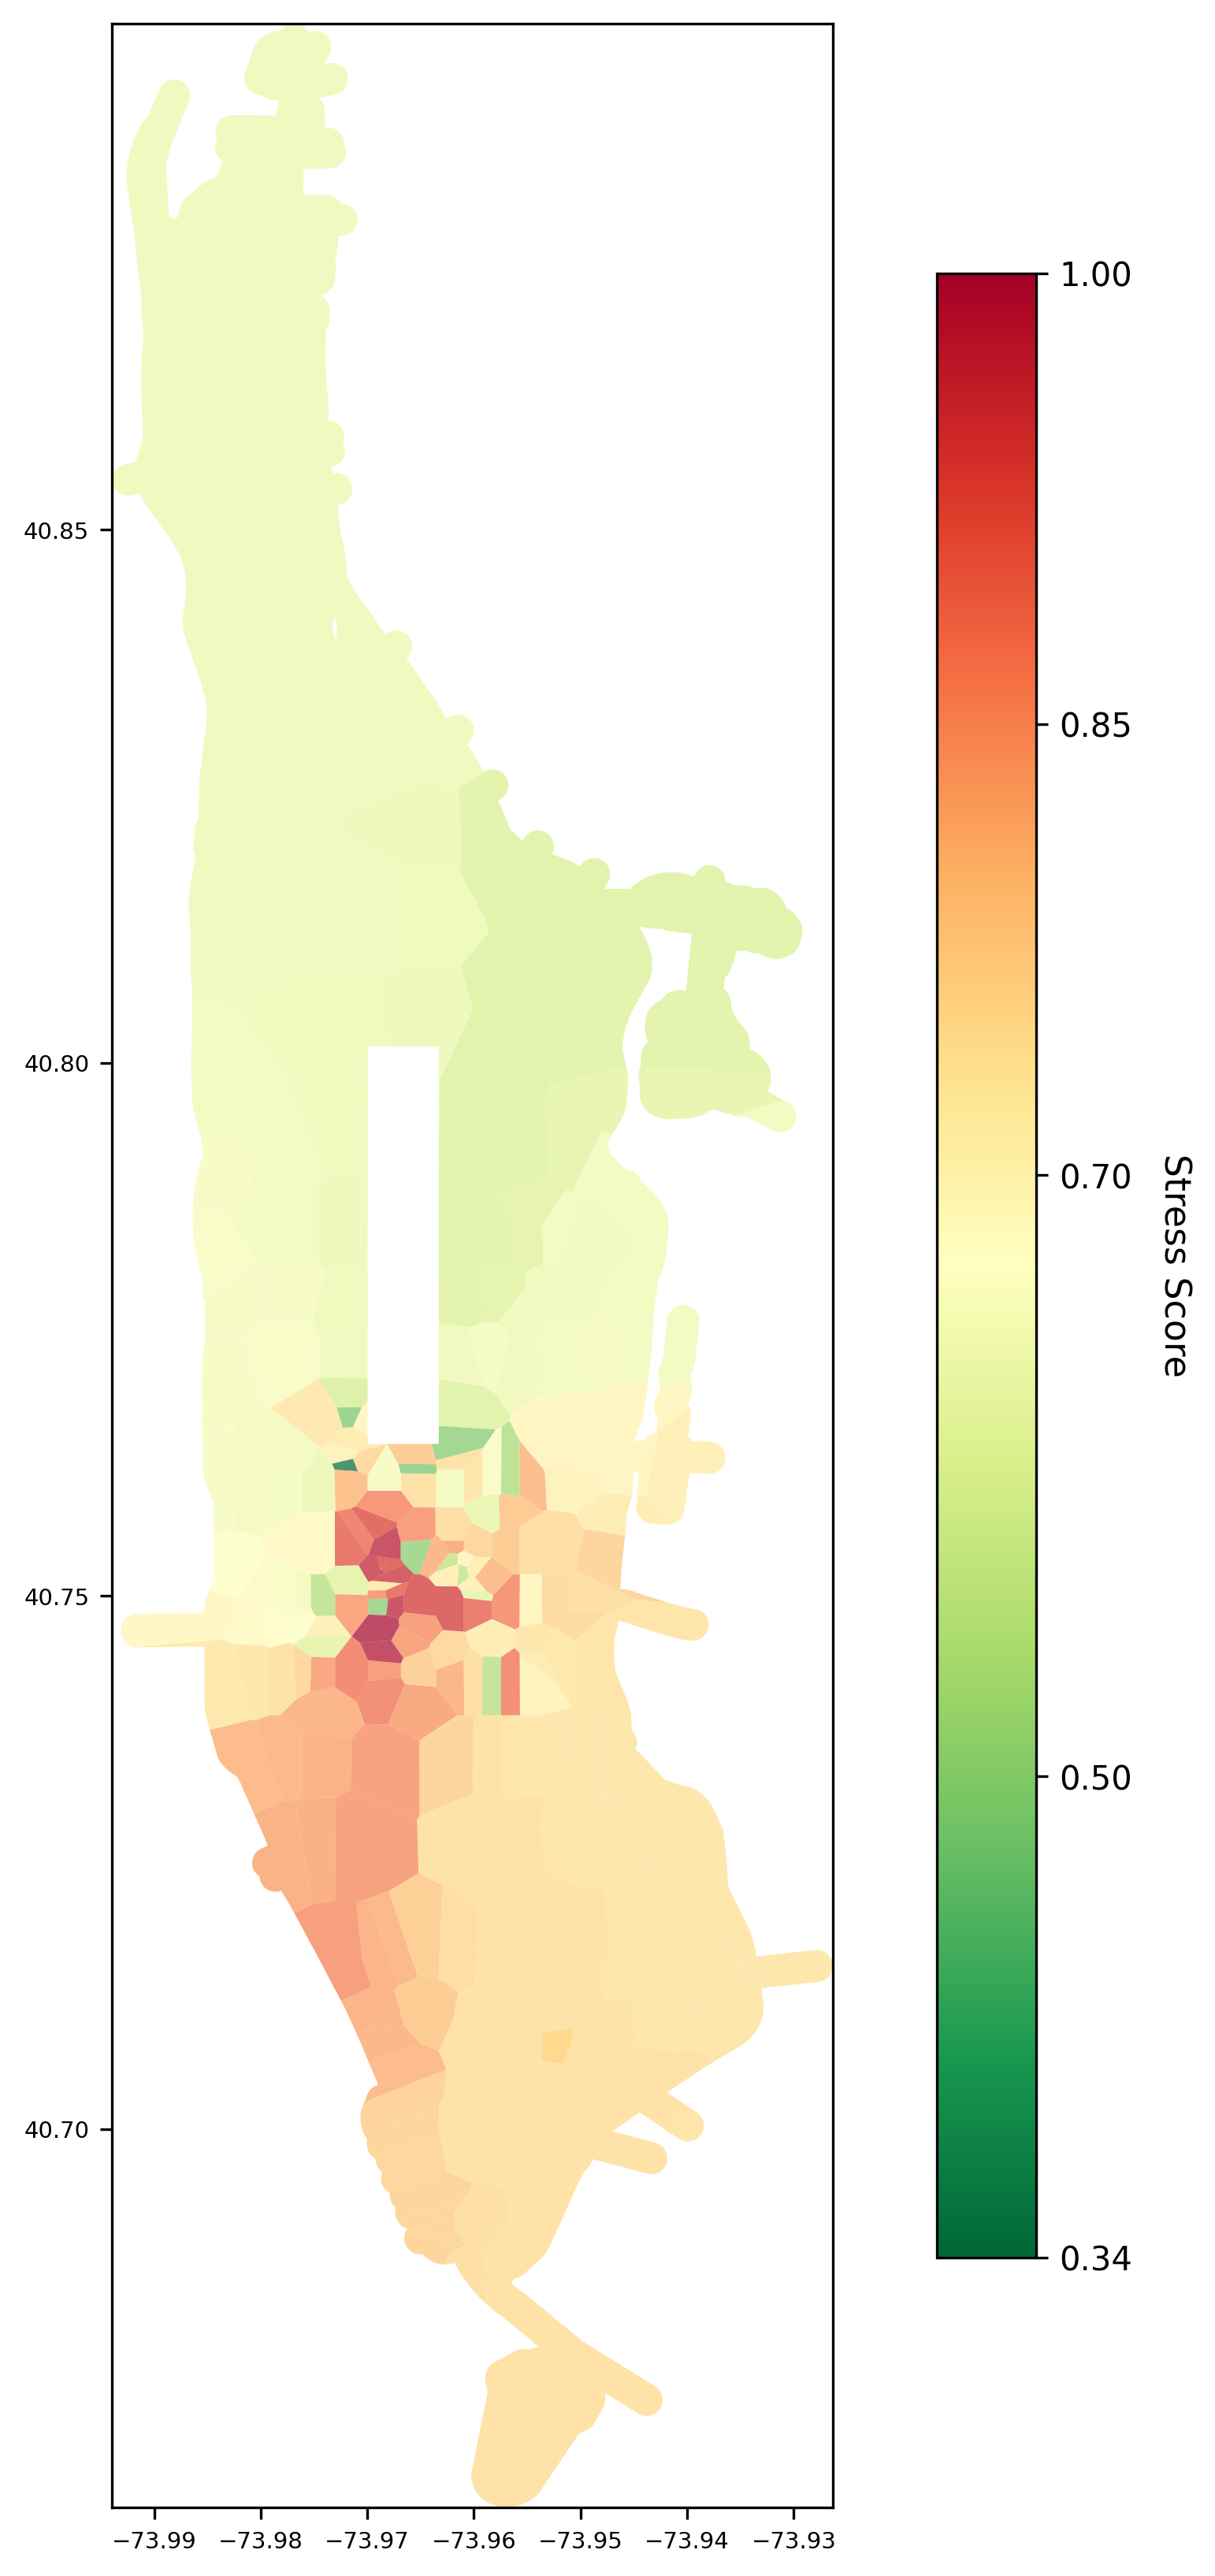
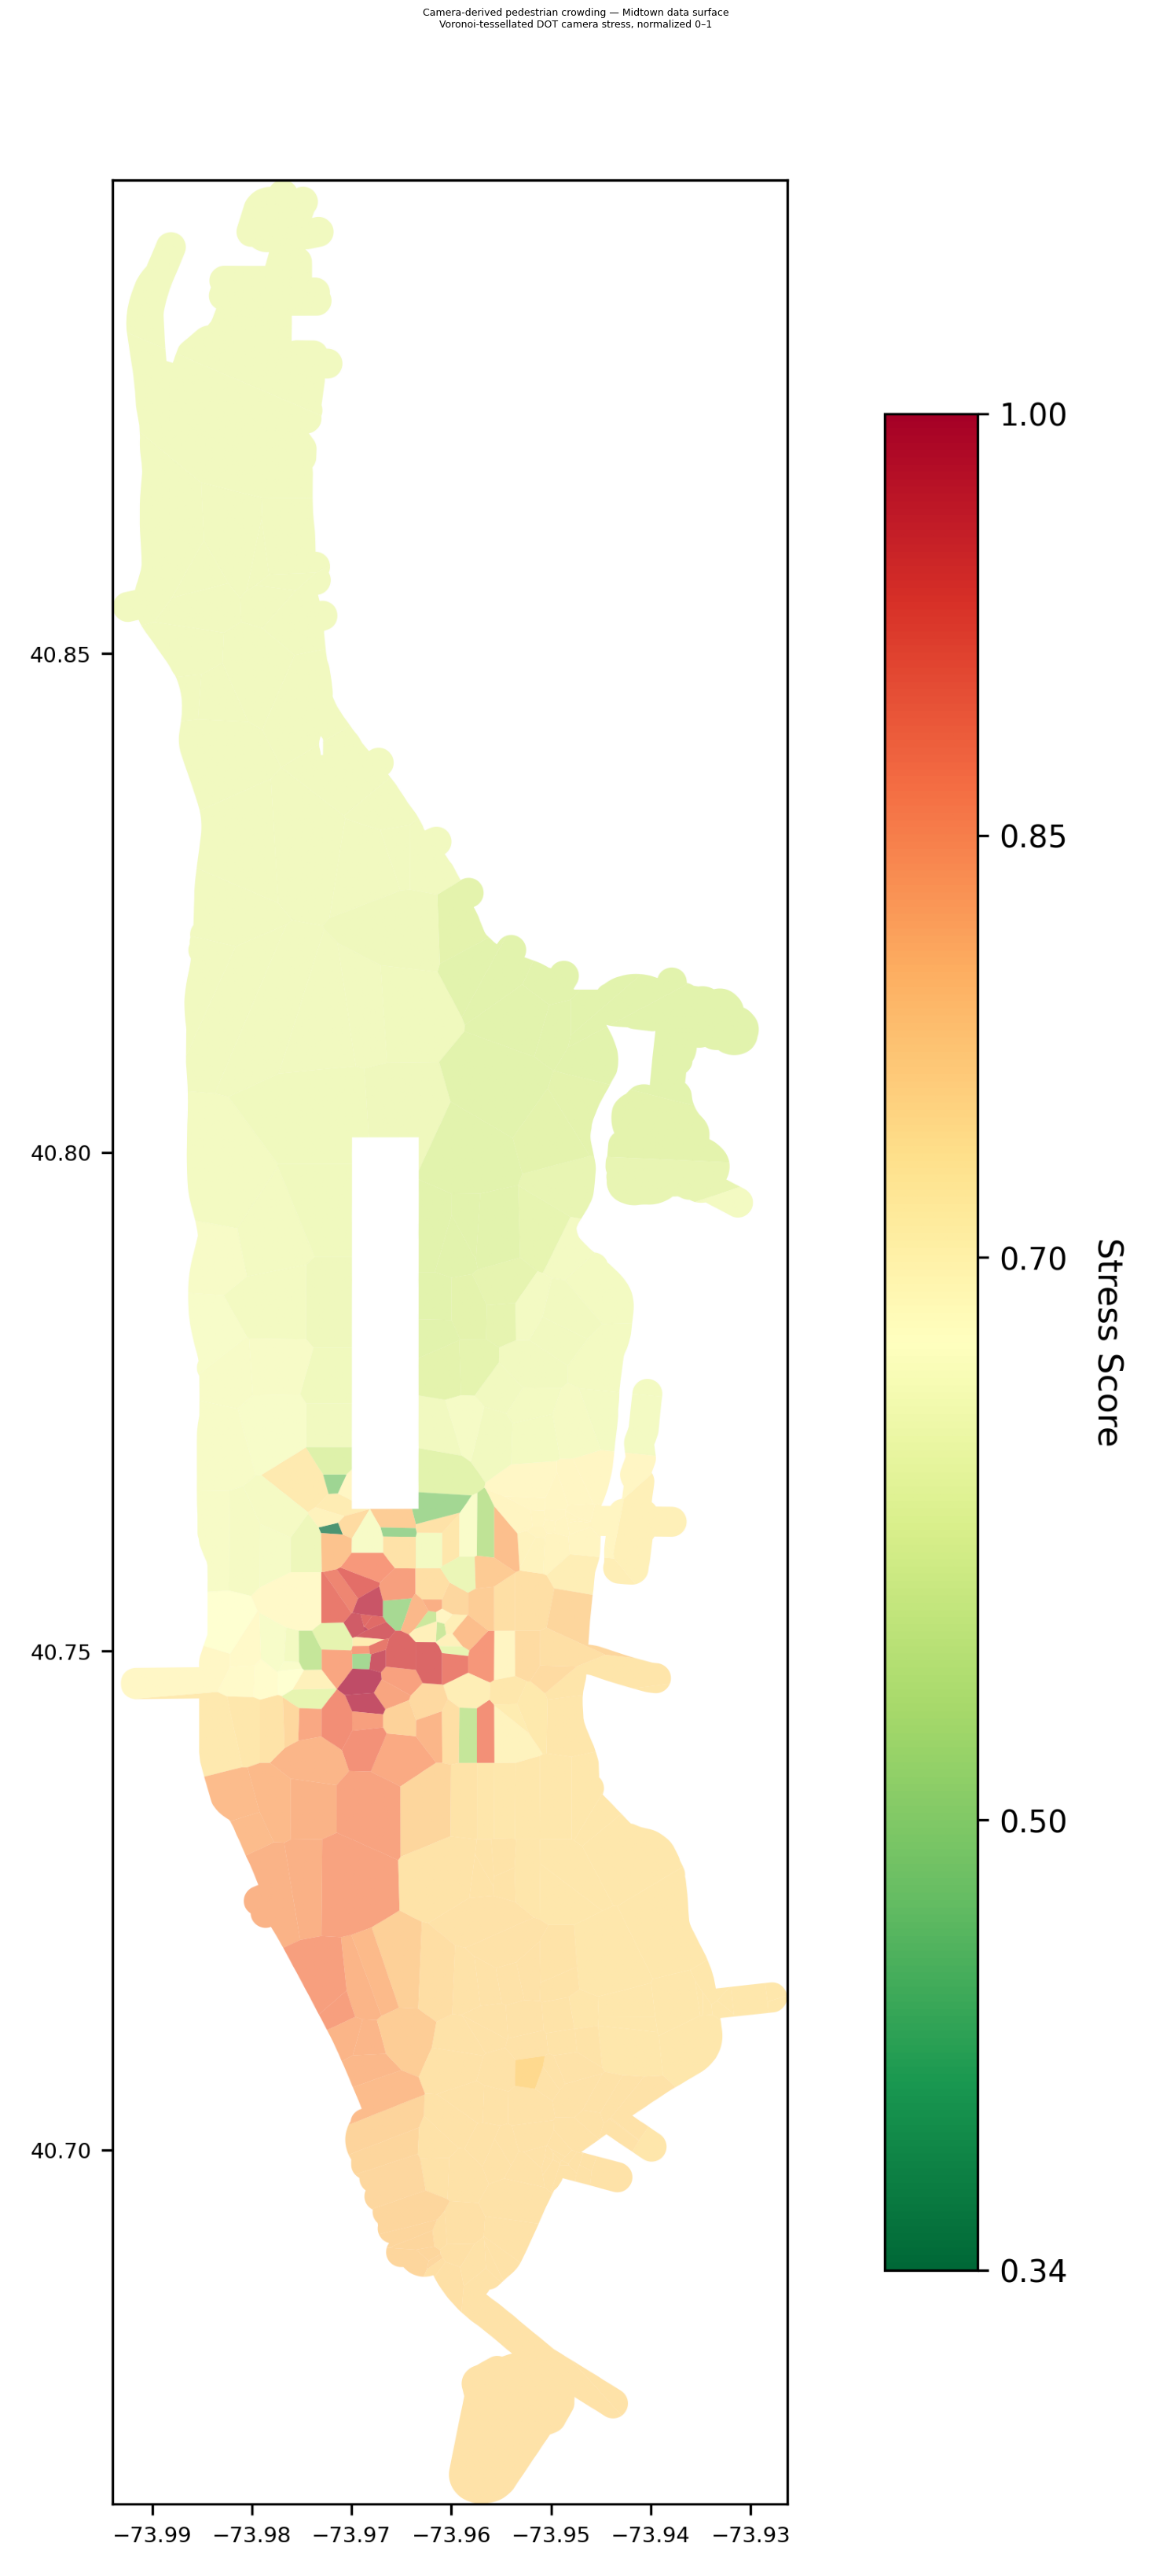
Gap Closure R3: h1 branding, stress-aware caption fixes, fig-04 title, aimez push
comfort-router.html: h1 'Observable Comfort Router' -> 'pax — Comfort Router'
executive-summary.html: stress-aware -> crowd-avoiding in all captions
figure-walkthrough.html: stress-aware -> crowd-avoiding in section heading
04_risk_heatmap_camera_stress.png: title added distinguishing camera crowding
  from satellite heat (matplotlib overlay)

diff --git a/docs/public/executive-summary.html b/docs/public/executive-summary.html
@@ -37,7 +37,7 @@
         <ul>
           <li>NYC Open Data tables plus DOT traffic cameras (substrate inventory on a later slide).</li>
           <li>Stress topology is fixed before any path algorithm runs.</li>
-          <li>Grand Central → Carnegie Hall: same blocks, lower accumulated camera stress on the stress-aware path.</li>
+          <li>Grand Central → Carnegie Hall: same blocks, lower accumulated camera stress on the crowd-avoiding path.</li>
           <li>Traffic cameras, satellite heat data, and NYC Open Data on Midtown streets (42nd–59th, 3rd–9th Ave). Reproducible snapshot. Claims bounded to this area.</li>
           <li>Open tables stay open; fusion, calibration, and routing cost stay proprietary.</li>
         </ul>
@@ -66,7 +66,7 @@
         <li><b>Stress field.</b> DOT cameras mapped to edge stress on the pedestrian graph.</li>
         <li><b>Topology.</b> Paths, loops and residuals on the locked corridor graph.</li>
         <li><b>Forecasting.</b> Short-horizon updates to the stress field before routing runs.</li>
-        <li><b>Route solving.</b> Block-equivalent and stress-aware paths on the same directed graph.</li>
+        <li><b>Route solving.</b> Block-equivalent and crowd-avoiding paths on the same directed graph.</li>
       </ol>
       <p class="lead">Traffic cameras, satellite heat data, a physics-based shade model, and NYC street tree data on one verified map. Five routing options, built in sequence so each layer can be checked independently before routing runs.</p>
       <div class="flow" style="margin-top:0.5rem">
@@ -157,15 +157,15 @@
       <h2>Nine origin–destination pairs</h2>
       <div class="slide-fig">
         <img src="../assets/gallery/mobility/02_feasible_routes_destination_grid.png" alt="Feasible routes across nine destinations" loading="lazy">
-        <p>Structural contrast across nine Midtown origin–destination pairs: stress-aware and comfort-aware paths diverge from fewest-block paths where the stress field and thermal burden differ.</p>
+        <p>Structural contrast across nine Midtown origin–destination pairs: crowd-avoiding and comfort-aware paths diverge from fewest-block paths where crowding and thermal burden differ.</p>
       </div>
     </section>
 
     <section class="slide slide--split">
       <div class="slide-copy">
         <p class="kicker">Figure</p>
-        <h2>Shortest and stress-aware routes</h2>
-        <p class="grow">Grand Central → Carnegie Hall: equal blocks, lower accumulated stress on the stress-aware path.</p>
+        <h2>Shortest and crowd-avoiding routes</h2>
+        <p class="grow">Grand Central → Carnegie Hall: equal blocks, lower accumulated stress on the crowd-avoiding path.</p>
       </div>
       <div class="slide-fig">
         <img src="../assets/gallery/mobility/01_fastest_route_vs_feasible_route_comparison.png" alt="Route comparison" loading="lazy">
@@ -188,7 +188,7 @@
         <p class="kicker">Validation</p>
         <h2>What we claim today</h2>
         <ul>
-          <li>On Grand Central → Carnegie Hall, the stress-aware path carries lower measured stress at equal blocks than the shortest-block path.</li>
+          <li>On Grand Central → Carnegie Hall, the crowd-avoiding path carries lower measured stress at equal blocks than the shortest-block path.</li>
           <li>Supply ⊥ demand at cross-street edges (r ≈ 0).</li>
           <li>Lived-knowledge check: 8/12 aligned, 0 misaligned (multi-informant study still needed).</li>
         </ul>

diff --git a/docs/public/comfort-router.html b/docs/public/comfort-router.html
@@ -403,7 +403,7 @@
   <div class="wrap" id="app">
     <header>
       <div class="brand"><img src="../assets/aimez-mark.webp" alt=""><span>aimez · comfort router</span></div>
-      <h1>Observable Comfort Router</h1>
+      <h1>pax — Comfort Router</h1>
       <p class="lede">Routing apps return the shortest path. They don't measure what the walk feels like. This system does: how crowded each block is, measured from traffic cameras; how much heat and shade each block carries, from satellite data and tree canopy. Five ways to weight the same routes. The path changes depending on which you choose.</p>
     </header>
 

diff --git a/docs/public/figure-walkthrough.html b/docs/public/figure-walkthrough.html
@@ -58,7 +58,7 @@
     <section class="slide slide--split">
       <div class="slide-copy">
         <p class="kicker">§1.1 · Navigation</p>
-        <h2>Shortest and stress-aware routes</h2>
+        <h2>Shortest and crowd-avoiding routes</h2>
         <p class="grow">Same blocks, different measured exposure (Grand Central → Carnegie Hall).</p>
       </div>
       <div class="slide-fig">